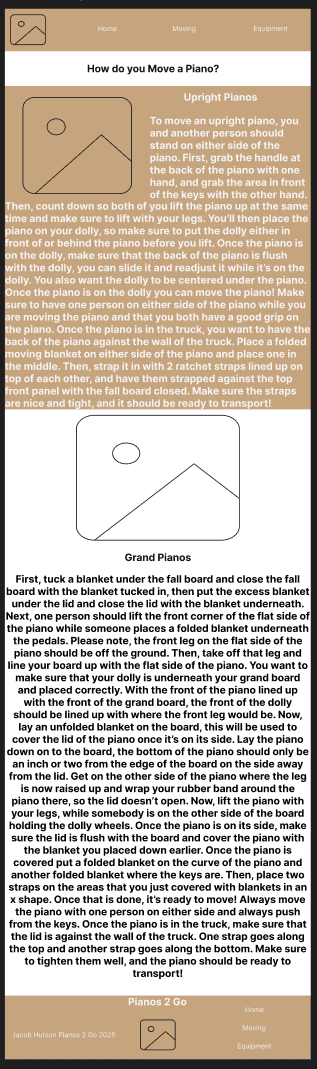
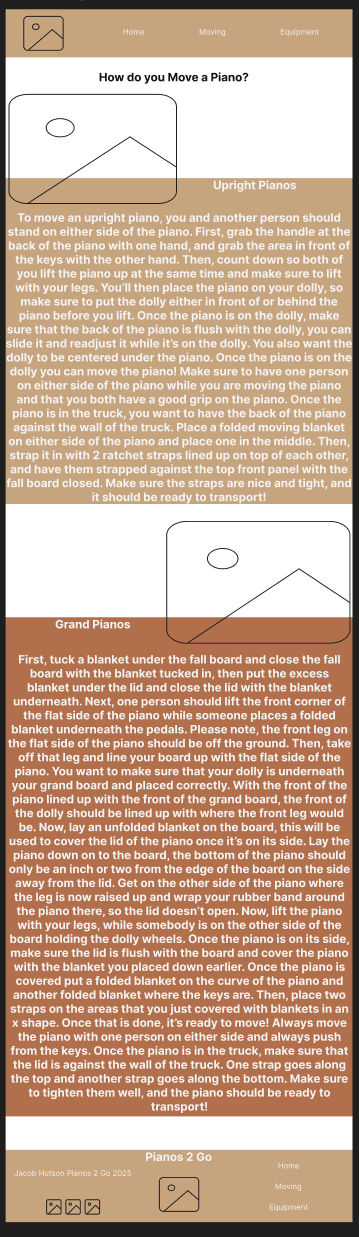
updated wireframe

diff --git a/pianos2go/site-plan.html b/pianos2go/site-plan.html
@@ -260,10 +260,10 @@
       <h3>Home</h3>
       <p>
         <!-- TODO: Week 09 - change this -->
-        I want to have a hero image at the top of the page that goes underneath the nav bar. The nav 
-        bar on the home page will have have 75% opacity. However, I plan on having the nav bar at 100% 
-        opacity for the other pages since the other pages will not have a hero image. Otherwise, I think 
-        that everything else in the wireframe are pretty clear and strait forward.
+        I felt that this layout would be unique, cool, and would help fill the page a little bit more 
+        since this page doesn't have as much text as the other pages. I also plan on having the first 
+        section enlarge when hovering so it comes on top of everything else and makes it easier to read 
+        for anyone just trying to read that section.
       </p>
       <!-- TODO: Week 09 - Add main page wireframe here  -->
       <img
@@ -275,11 +275,11 @@
       <h3>Equipment</h3>
       <p>
         <!-- TODO: Week 09 - change this -->
-        I wanted to have 3 pictures on this page, each showing different types of equipment
-        to move pianos. With the last image and section of text on the page, I wanted the text 
-        to wrap around the picture since the picture directly relates to the section of text. 
-        Whereas, I wanted to have the two pictures at the top of the page because they are pictures 
-        of equipment that you would use to move any piano, therefore applying to the whole page. 
+        I wanted to have 3 pictures on this page, each showing different types of equipment to move pianos. 
+        With the last image and section of text on the page, I wanted the text at the bottom to wrap around 
+        the picture since the picture directly relates to the section of text. I also felt that having the two 
+        pictures on top of each other next to the text helped clean up the design a little bit while still 
+        relating well to its corresponding section. 
       </p>
       <!-- TODO: Week 09 - Add page 2 wireframe here  -->
       <img
@@ -291,10 +291,9 @@
       <h3>Moving</h3>
       <p>
         <!-- TODO: Week 09 - change this -->
-        I wanted to start this page of the website with an image wrapped in text to get strait in to 
-        explaining how to move upright pianos. I also wanted to make sure to leave as much room as 
-        possible to explain how to move a grand piano. I also wanted the images to separate the two 
-        sections of text and show the focus of each section of the page.
+        With this page, I decided to try doing something similar to the home page, however, I wanted the images 
+        corresponding to their sections to overlap their sections and become almost part of the heading for their 
+        sections. I also plan on enhancing some of the text to bold important information that shouldn't be missed.
       </p>
       <!-- TODO: Week 09 - Add page 3 wireframe here -->
       <img
